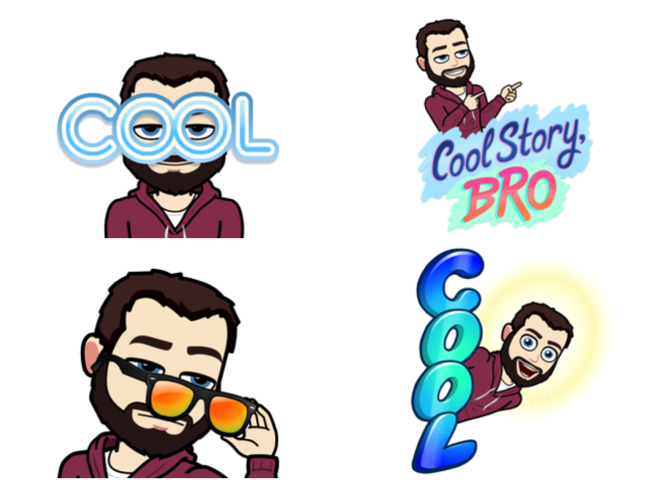
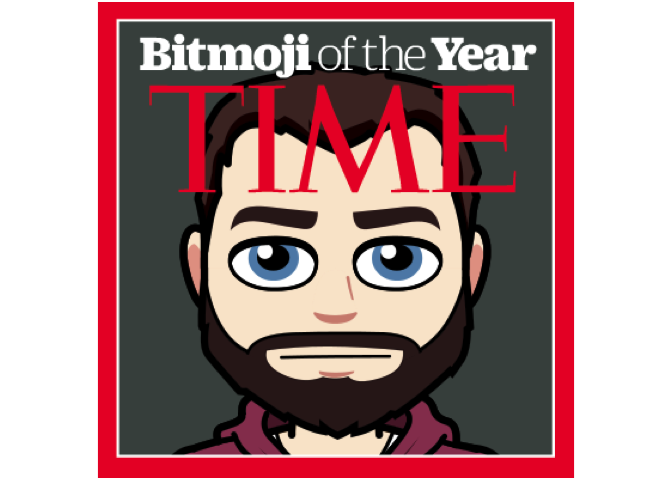
another example

diff --git a/README.md b/README.md
@@ -39,12 +39,20 @@ plot_comic(user_id, tag = "fail")
 
 ``` r
 
+# Another example
+plot_comic(user_id, tag = "time magazine")
+```
+
+<img src="tools/README-unnamed-chunk-2-2.png" style="display: block; margin: auto;" />
+
+``` r
+
 # Some tags are associated with multiple comics
 par(mfrow = c(2, 2))
 for (i in 1:4) plot_comic(user_id, tag = "cool")
 ```
 
-<img src="tools/README-unnamed-chunk-2-2.png" style="display: block; margin: auto;" />
+<img src="tools/README-unnamed-chunk-2-3.png" style="display: block; margin: auto;" />
 
 The basic idea
 --------------
